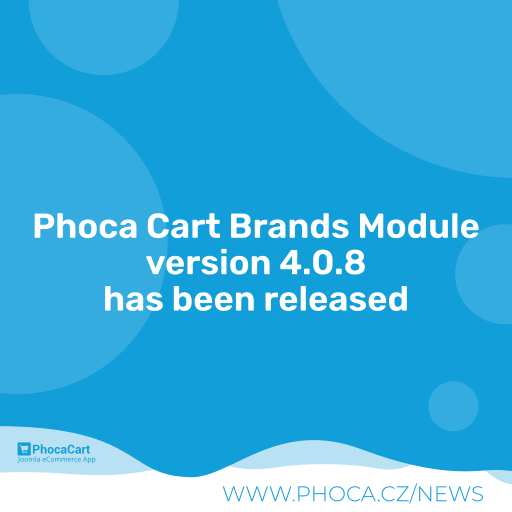
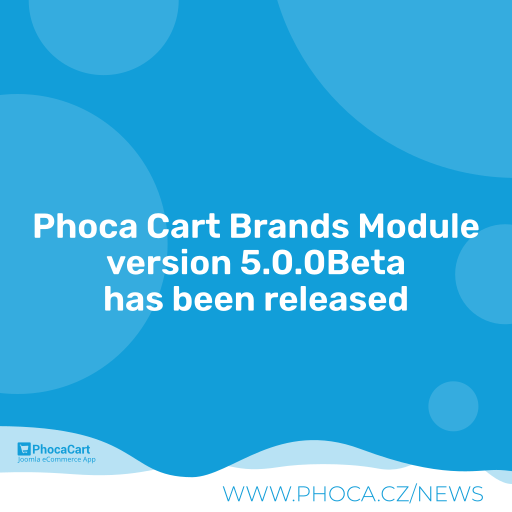
4.0.9

Changed region(s): [[0.1875, 0.4688, 0.8125, 0.5625]]

diff --git a/tmpl/default.php b/tmpl/default.php
@@ -6,6 +6,9 @@
  * @copyright Copyright (C) Jan Pavelka www.phoca.cz
  * @license http://www.gnu.org/copyleft/gpl.html GNU/GPL
  */
+
+use Joomla\CMS\Uri\Uri;
+
 defined('_JEXEC') or die;
 
 echo '<div class="phBrandsModuleBox ph-brands-module-box'.$moduleclass_sfx .'">';
@@ -36,7 +39,7 @@ if (!empty($brands)) {
 
 			echo '<div class="ph-brand-name">';
 			echo $p['display_link'] == 1 ? '<a href="'.$link.'">' : '';
-			echo '<img src="'.JURI::base(true).'/' . $v->image.'" alt="'.htmlspecialchars($v->title).'" '.$attributeLazyLoad.'/>';
+			echo '<img src="'.Uri::base(true).'/' . $v->image.'" alt="'.htmlspecialchars($v->title).'" '.$attributeLazyLoad.'/>';
 			echo $p['display_link'] == 1 ? '</a>' : '';
 			echo '</div>';
 

diff --git a/mod_phocacart_brands.php b/mod_phocacart_brands.php
@@ -7,17 +7,17 @@
  * @license http://www.gnu.org/copyleft/gpl.html GNU/GPL
  */
 
+defined('_JEXEC') or die;// no direct access
 use Joomla\CMS\Component\ComponentHelper;
 use Joomla\CMS\Factory;
+use Joomla\CMS\Language\Text;
 use Joomla\CMS\Helper\ModuleHelper;
-
-defined('_JEXEC') or die;// no direct access
 
 
 $app = Factory::getApplication();
 
 if (!ComponentHelper::isEnabled('com_phocacart', true)) {
-	$app->enqueueMessage(JText::_('Phoca Cart Error'), JText::_('Phoca Cart is not installed on your system'), 'error');
+	$app->enqueueMessage(Text::_('Phoca Cart Error'), Text::_('Phoca Cart is not installed on your system'), 'error');
 	return;
 }
 

diff --git a/README.MD b/README.MD
@@ -60,7 +60,11 @@ Phoca Cart Brands Module - a Joomla! module which displays list of manufacturers
 
 ## Version (Joomla! 4.x)
 
-4.0.8
+4.0.9
+
+## Version (Joomla! 5.x)
+
+5.0.0Beta
 
 
 
@@ -71,3 +75,17 @@ GNU/GPL
 
 
 This project is open source project - feel free to contribute! Thank you.
+
+
+
+## Social Media
+
+- [Phoca on Facebook](https://www.facebook.com/Phoca.cz)
+
+- [Phoca on X (Twitter)](https://twitter.com/PhocaCz)
+
+- [Phoca on YouTube](https://www.youtube.com/user/phocavideos)
+
+- [Phoca on GitHub](https://github.com/PhocaCz)
+
+- [Phoca on Reddit](https://www.reddit.com/user/PhocaCz)
